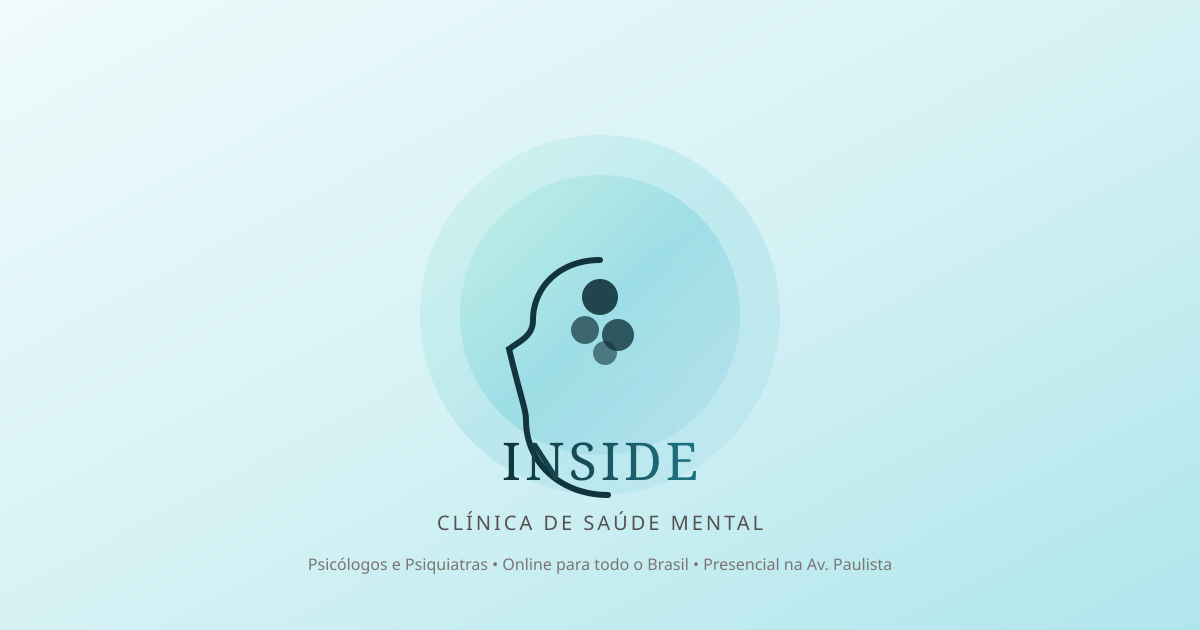
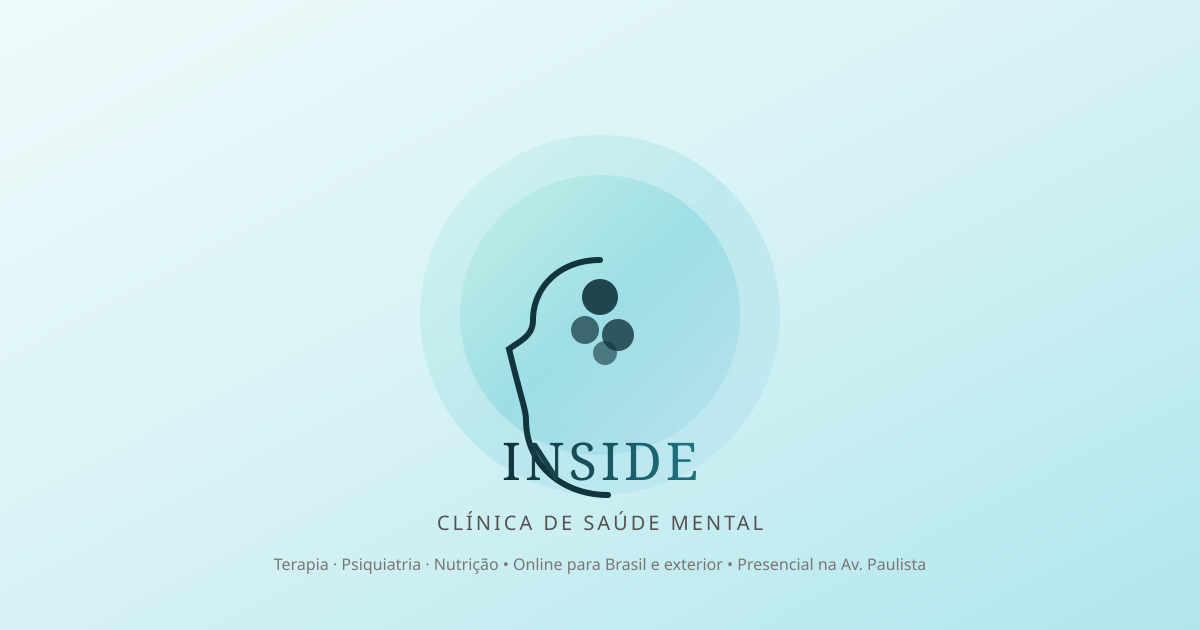
Cliente: Sala 1316 (13º andar), nutrição + bioimpedância, online Brasil e exterior, remove Intermédica

Changed region(s): [[0.2158, 0.8746, 0.7708, 0.9048]]

diff --git a/src_index.html b/src_index.html
@@ -5,7 +5,7 @@
 <meta name="viewport" content="width=device-width, initial-scale=1.0">
 <!-- ═══════════ SEO — online primeiro, Av. Paulista como base ═══════════ -->
 <title>INSIDE — Psicólogos e Psiquiatras Online | Clínica de Saúde Mental</title>
-<meta name="description" content="Terapia e consulta psiquiátrica online, de qualquer lugar do Brasil. Psicólogos e psiquiatras na mesma clínica. Também presencial na Av. Paulista, São Paulo. Unimed e Intermédica.">
+<meta name="description" content="Terapia, psiquiatria e acompanhamento nutricional online, do Brasil ou do exterior. Psicólogos, psiquiatras e nutricionista na mesma clínica. Presencial na Av. Paulista, São Paulo. Unimed.">
 <meta name="keywords" content="psicólogo online, psiquiatra online, terapia online, consulta psiquiátrica online, terapia de casal online, psicólogo online unimed, clínica de saúde mental online, psiquiatra av paulista">
 <meta name="robots" content="index, follow">
 <meta name="geo.region" content="BR-SP">
@@ -36,7 +36,7 @@
     {
       "@type":"MedicalClinic",
       "name":"INSIDE — Clínica de Saúde Mental",
-      "description":"Clínica de saúde mental com psicólogos e psiquiatras. Atendimento online para todo o Brasil e presencial em São Paulo. Terapia individual, de casal e familiar, atendimento infantil e consulta psiquiátrica.",
+      "description":"Clínica de saúde mental e bem-estar com psicólogos, psiquiatras e acompanhamento nutricional com bioimpedância. Atendimento online para todo o Brasil e exterior, e presencial em São Paulo. Terapia individual, de casal e familiar, atendimento infantil e consulta psiquiátrica.",
       "url":"https://www.insideemocional.com.br/",
       "telephone":["+55-11-96586-8310","+55-11-96701-6060"],
       "medicalSpecialty":["Psychiatric","Psychology"],
@@ -44,7 +44,7 @@
       "isAcceptingNewPatients":true,
       "address":{
         "@type":"PostalAddress",
-        "streetAddress":"Av. Paulista, 1159 — Conj. 702",
+        "streetAddress":"Av. Paulista, 1159 — Sala 1316, 13º andar",
         "addressLocality":"São Paulo",
         "addressRegion":"SP",
         "postalCode":"01311-200",
@@ -56,6 +56,7 @@
         {"@type":"MedicalTherapy","name":"Terapia individual online — adulto e infantil"},
         {"@type":"MedicalTherapy","name":"Terapia de casal e familiar online"},
         {"@type":"MedicalProcedure","name":"Consulta psiquiátrica online"},
+        {"@type":"MedicalTherapy","name":"Acompanhamento nutricional com bioimpedância"},
         {"@type":"MedicalTherapy","name":"Atendimento presencial em São Paulo"}
       ],
       "medicalBusinessType":"Clinic",
@@ -71,7 +72,7 @@
         {"@type":"Question","name":"O que eu falar fica em sigilo?","acceptedAnswer":{"@type":"Answer","text":"Sim. O sigilo é obrigação prevista nos códigos de ética da psicologia e da medicina. As exceções são estritas e previstas em lei — situações de risco de vida ou determinação judicial — e são explicadas a você no primeiro atendimento."}},
         {"@type":"Question","name":"Como funciona o atendimento online?","acceptedAnswer":{"@type":"Answer","text":"Por videochamada em plataforma segura, com a mesma duração e o mesmo sigilo do presencial. Tanto a psicoterapia quanto a consulta psiquiátrica à distância são regulamentadas pelos respectivos conselhos. Você precisa de conexão estável e de um ambiente reservado."}},
         {"@type":"Question","name":"Vocês atendem crianças?","acceptedAnswer":{"@type":"Answer","text":"Sim, na terapia individual infantil, com abordagem adaptada à faixa etária e orientação periódica aos responsáveis. O agendamento é feito por um responsável legal."}},
-        {"@type":"Question","name":"Meu plano cobre a consulta?","acceptedAnswer":{"@type":"Answer","text":"Atendemos Unimed e Intermédica. A cobertura varia conforme o produto contratado, então vale confirmar com a recepção antes de agendar. Para outros planos, emitimos recibo para reembolso."}},
+        {"@type":"Question","name":"Meu plano cobre a consulta?","acceptedAnswer":{"@type":"Answer","text":"Atendemos Unimed. A cobertura varia conforme o produto contratado, então vale confirmar com a recepção antes de agendar. Para outros planos, emitimos recibo para reembolso."}},
         {"@type":"Question","name":"A clínica atende urgências?","acceptedAnswer":{"@type":"Answer","text":"Não. A INSIDE trabalha com atendimento agendado e não funciona como pronto-socorro. Em situação de risco imediato, ligue 188 (CVV, gratuito e 24 horas), procure a UPA mais próxima ou o CAPS da sua região."}}
       ]
     },
@@ -407,7 +408,7 @@ footer li{margin-bottom:.6rem}
 <section class="hero" id="topo">
   <div class="wrap hero-grid">
     <div class="rev">
-      <span class="eyebrow">Online para todo o Brasil · Presencial em São Paulo</span>
+      <span class="eyebrow">Online para Brasil e exterior · Presencial em São Paulo</span>
       <h1>Psicólogos e psiquiatras, de onde você estiver.</h1>
       <p class="lede">
         Seu bem-estar estará em boas mãos. Terapia e acompanhamento psiquiátrico na mesma
@@ -502,7 +503,7 @@ footer li{margin-bottom:.6rem}
       </p>
       <ul class="mais-list" style="margin-top:1.9rem">
         <li><svg viewBox="0 0 24 24" fill="none" stroke="currentColor" stroke-width="2.2" stroke-linecap="round"><path d="M20 6 9 17l-5-5"/></svg> <span>Sem trânsito, sem estacionamento, sem sala de espera</span></li>
-        <li><svg viewBox="0 0 24 24" fill="none" stroke="currentColor" stroke-width="2.2" stroke-linecap="round"><path d="M20 6 9 17l-5-5"/></svg> <span>De qualquer cidade do Brasil, inclusive quem mora fora</span></li>
+        <li><svg viewBox="0 0 24 24" fill="none" stroke="currentColor" stroke-width="2.2" stroke-linecap="round"><path d="M20 6 9 17l-5-5"/></svg> <span>De qualquer cidade do Brasil — e também de quem mora no exterior</span></li>
         <li><svg viewBox="0 0 24 24" fill="none" stroke="currentColor" stroke-width="2.2" stroke-linecap="round"><path d="M20 6 9 17l-5-5"/></svg> <span>Continuidade em viagem, mudança ou rotina irregular</span></li>
         <li><svg viewBox="0 0 24 24" fill="none" stroke="currentColor" stroke-width="2.2" stroke-linecap="round"><path d="M20 6 9 17l-5-5"/></svg> <span>Discrição total — ninguém precisa saber que você faz terapia</span></li>
       </ul>
@@ -536,7 +537,7 @@ footer li{margin-bottom:.6rem}
       <span class="eyebrow">Nossos serviços</span>
       <h2>Orientação e cuidados personalizados</h2>
       <p class="lede">
-        Três frentes de atendimento, online para todo o Brasil ou presenciais em São Paulo.
+        Quatro frentes de atendimento, online para Brasil e exterior ou presenciais em São Paulo.
         Na primeira conversa definimos com você qual faz mais sentido.
       </p>
     </div>
@@ -574,6 +575,17 @@ footer li{margin-bottom:.6rem}
         </p>
         <div class="meta"><span class="tag">Adulto</span><span class="tag">Infantil</span><span class="tag">Presencial ou online</span></div>
       </article>
+      <article class="svc rev d3">
+        <span class="ic"><svg viewBox="0 0 24 24" fill="none" stroke="currentColor" stroke-width="1.8" stroke-linecap="round" stroke-linejoin="round"><path d="M22 12h-4l-3 9L9 3l-3 9H2"/></svg></span>
+        <span class="kicker">Mente e corpo</span>
+        <h3>Nutrição e bioimpedância</h3>
+        <p>
+          Às vezes, o que o seu corpo precisa é só de um ajuste. Acompanhamento nutricional
+          com avaliação por bioimpedância, integrado ao cuidado da mente — saúde emocional
+          e física no mesmo lugar, com a mesma equipe.
+        </p>
+        <div class="meta"><span class="tag">Nutrição</span><span class="tag">Bioimpedância</span><span class="tag">Presencial ou online</span></div>
+      </article>
     </div>
   </div>
 </section>
@@ -596,7 +608,7 @@ footer li{margin-bottom:.6rem}
       </p>
       <ul class="mais-list">
         <li><svg viewBox="0 0 24 24" fill="none" stroke="currentColor" stroke-width="2.2" stroke-linecap="round"><path d="M20 6 9 17l-5-5"/></svg> Agenda sempre aberta, sem lista de espera</li>
-        <li><svg viewBox="0 0 24 24" fill="none" stroke="currentColor" stroke-width="2.2" stroke-linecap="round"><path d="M20 6 9 17l-5-5"/></svg> Atendimento online de qualquer lugar do Brasil</li>
+        <li><svg viewBox="0 0 24 24" fill="none" stroke="currentColor" stroke-width="2.2" stroke-linecap="round"><path d="M20 6 9 17l-5-5"/></svg> Atendimento online de qualquer lugar do Brasil ou do exterior</li>
         <li><svg viewBox="0 0 24 24" fill="none" stroke="currentColor" stroke-width="2.2" stroke-linecap="round"><path d="M20 6 9 17l-5-5"/></svg> Mesma equipe, mesmos profissionais qualificados</li>
         <li><svg viewBox="0 0 24 24" fill="none" stroke="currentColor" stroke-width="2.2" stroke-linecap="round"><path d="M20 6 9 17l-5-5"/></svg> Independe de autorização ou carência de plano</li>
       </ul>
@@ -615,23 +627,56 @@ footer li{margin-bottom:.6rem}
 </section>
 <!-- ══════ CONVÊNIOS ══════ -->
 <section class="pad" id="convenios">
-  <div class="wrap narrow rev">
-    <span class="eyebrow">Opções de atendimento</span>
-    <h2>Convênios atendidos</h2>
-    <p class="lede">
-      Atendemos pelos planos abaixo. Para os demais, emitimos recibo com registro
-      profissional e CNPJ para você solicitar reembolso — a recepção orienta no processo.
+  <div class="wrap">
+    <div class="narrow rev">
+      <span class="eyebrow">Opções de atendimento</span>
+      <h2>Convênios e formas de pagamento</h2>
+      <p class="lede">
+        Atendemos convênios direto e, para os demais, emitimos recibo com CRP/CRM e CNPJ
+        para reembolso — a recepção orienta no processo e verifica sua cobertura antes de agendar.
+      </p>
+    </div>
+
+    <div class="conv-grid" style="display:grid;grid-template-columns:repeat(auto-fit,minmax(260px,1fr));gap:1.3rem;margin-top:3rem">
+      <!-- UNIMED -->
+      <article class="conv-card rev" style="background:#fff;border:1px solid var(--ink-100);border-radius:var(--r);padding:1.9rem 1.7rem;display:flex;flex-direction:column;transition:transform .25s ease,box-shadow .25s ease,border-color .25s ease">
+        <div class="conv-icon" style="width:44px;height:44px;border-radius:50%;background:var(--teal-100);display:grid;place-items:center;margin-bottom:1.2rem">
+          <svg viewBox="0 0 24 24" fill="none" stroke="currentColor" stroke-width="1.8" stroke-linecap="round" style="width:21px;height:21px;color:var(--teal-700)"><rect x="2" y="4" width="20" height="14" rx="2"/><path d="M8 22h8M12 18v4"/></svg>
+        </div>
+        <span class="kicker" style="font-size:.72rem;font-weight:700;letter-spacing:.14em;text-transform:uppercase;color:var(--teal-600);margin-bottom:.5rem;display:block">Convênio direto</span>
+        <h3 style="margin-bottom:.4rem">Unimed</h3>
+        <p style="font-size:.93rem;color:var(--ink-700);flex:1;margin-bottom:1.2rem">Psicoterapia e psiquiatria pela rede credenciada. A recepção confirma elegibilidade e coparticipação antes do agendamento.</p>
+        <a href="#contato" class="btn btn-outline" style="width:100%;justify-content:center;margin-top:auto">Verificar cobertura</a>
+      </article>
+
+      <!-- DEMAIS PLANOS - REEMBOLSO -->
+      <article class="conv-card rev d1" style="background:var(--teal-50);border:1px solid var(--teal-200);border-radius:var(--r);padding:1.9rem 1.7rem;display:flex;flex-direction:column;transition:transform .25s ease,box-shadow .25s ease,border-color .25s ease">
+        <div class="conv-icon" style="width:44px;height:44px;border-radius:50%;background:var(--teal-100);display:grid;place-items:center;margin-bottom:1.2rem">
+          <svg viewBox="0 0 24 24" fill="none" stroke="currentColor" stroke-width="1.8" stroke-linecap="round" style="width:21px;height:21px;color:var(--teal-700)"><path d="M12 2v20M17 5H9.5a3.5 3.5 0 0 0 0 7h5a3.5 3.5 0 0 1 0 7H6"/></svg>
+        </div>
+        <span class="kicker" style="font-size:.72rem;font-weight:700;letter-spacing:.14em;text-transform:uppercase;color:var(--teal-700);margin-bottom:.5rem;display:block">Reembolso</span>
+        <h3 style="margin-bottom:.4rem">Outros convênios</h3>
+        <p style="font-size:.93rem;color:var(--ink-700);flex:1;margin-bottom:1.2rem">Bradesco, SulAmérica, Amil, Porto Seguro, etc. Emitimos recibo completo (CNPJ, CRP/CRM, descrição) — você envia no app/portal do plano.</p>
+        <a href="#contato" class="btn btn-primary" style="width:100%;justify-content:center;margin-top:auto;background:var(--teal-600)">Quero atendimento por reembolso</a>
+      </article>
+
+      <!-- PARTICULAR / PLANO MAIS -->
+      <article class="conv-card rev d2" style="background:var(--teal-950);color:#CFE6EA;border:1px solid rgba(127,211,221,.24);border-radius:var(--r);padding:1.9rem 1.7rem;display:flex;flex-direction:column;transition:transform .25s ease,box-shadow .25s ease,border-color .25s ease">
+        <div class="conv-icon" style="width:44px;height:44px;border-radius:50%;background:rgba(127,211,221,.15);display:grid;place-items:center;margin-bottom:1.2rem">
+          <svg viewBox="0 0 24 24" fill="none" stroke="currentColor" stroke-width="1.8" stroke-linecap="round" style="width:21px;height:21px;color:var(--teal-300)"><circle cx="12" cy="12" r="10"/><path d="M12 6v6l4 2"/></svg>
+        </div>
+        <span class="kicker" style="font-size:.72rem;font-weight:700;letter-spacing:.14em;text-transform:uppercase;color:var(--teal-300);margin-bottom:.5rem;display:block">Sem convênio / Plano Mais</span>
+        <h3 style="margin-bottom:.4rem;color:#fff">Particular</h3>
+        <p style="font-size:.93rem;color:#A8CBD2;flex:1;margin-bottom:1.2rem">Sem autorização, carência ou rede credenciada. Mesma equipe, agenda aberta — você escolhe o horário e começa quando quiser.</p>
+        <a href="https://wa.me/5511965868310" class="btn" target="_blank" rel="noopener" style="width:100%;justify-content:center;margin-top:auto;background:var(--teal-300);color:var(--teal-950)">Ver vagas no WhatsApp</a>
+      </article>
+    </div>
+
+    <!-- NOTE -->
+    <p style="margin-top:2rem;font-size:.85rem;color:var(--ink-500);text-align:center;max-width:600px;margin-left:auto;margin-right:auto">
+      <svg viewBox="0 0 24 24" fill="none" stroke="currentColor" stroke-width="2" stroke-linecap="round" stroke-linejoin="round" style="width:16px;height:16px;display:inline-block;vertical-align:middle;margin-right:.4rem;color:var(--teal-500)"><rect x="3" y="11" width="18" height="11" rx="2"/><path d="M7 11V7a5 5 0 0 1 10 0v4"/></svg>
+      Sigilo profissional garantido. Recepção responde em até 30 min no horário comercial.
     </p>
-    <!-- ⬇ Substituir os textos pelos logos oficiais (autorizados) se houver liberação de uso de marca -->
-    <div class="plans">
-      <span class="plan">Unimed<em>Consulte cobertura</em></span>
-      <span class="plan">Intermédica<em>Consulte cobertura</em></span>
-      <span class="plan">Demais planos<em>Recibo para reembolso</em></span>
-      <span class="plan">Particular<em>Presencial ou online</em></span>
-    </div>
-    <div style="margin-top:2rem">
-      <a href="#contato" class="btn btn-outline">Confirmar cobertura do meu plano</a>
-    </div>
   </div>
 </section>
 <!-- ══════ QUEM SOMOS ══════ -->
@@ -704,7 +749,7 @@ footer li{margin-bottom:.6rem}
         <button aria-expanded="false">Meu plano cobre a consulta?
           <span class="ind"><svg viewBox="0 0 24 24" fill="none" stroke="currentColor" stroke-width="2.4" stroke-linecap="round"><path d="M12 5v14M5 12h14"/></svg></span>
         </button>
-        <div class="ans"><p>Atendemos Unimed e Intermédica. A cobertura varia conforme o produto contratado, então vale confirmar com a recepção antes de agendar. Para outros planos, emitimos recibo para reembolso.</p></div>
+        <div class="ans"><p>Atendemos Unimed. A cobertura varia conforme o produto contratado, então vale confirmar com a recepção antes de agendar. Para outros planos, emitimos recibo para reembolso.</p></div>
       </div>
       <div class="qa">
         <button aria-expanded="false">A clínica atende urgências?
@@ -743,14 +788,14 @@ footer li{margin-bottom:.6rem}
         <span class="ic"><svg viewBox="0 0 24 24" fill="none" stroke="currentColor" stroke-width="2" stroke-linecap="round"><rect x="2" y="4" width="20" height="14" rx="2"/><path d="M8 22h8M12 18v4"/></svg></span>
         <div>
           <b>Atendimento online</b>
-          <span>Videochamada em plataforma segura, para todo o Brasil</span>
+          <span>Videochamada em plataforma segura, para Brasil e exterior</span>
         </div>
       </div>
       <div class="contact-line">
         <span class="ic"><svg viewBox="0 0 24 24" fill="none" stroke="currentColor" stroke-width="2" stroke-linecap="round"><path d="M21 10c0 7-9 13-9 13s-9-6-9-13a9 9 0 0 1 18 0z"/><circle cx="12" cy="10" r="3"/></svg></span>
         <div>
           <b>Presencial em São Paulo</b>
-          <span>Av. Paulista, 1159 — Conj. 702 · Bela Vista · Metrô Trianon-Masp</span>
+          <span>Av. Paulista, 1159 — Sala 1316, 13º andar · Bela Vista · Metrô Trianon-Masp</span>
         </div>
       </div>
     </div>
@@ -815,7 +860,7 @@ footer li{margin-bottom:.6rem}
     <div class="ft-grid">
       <div class="ft-brand">
         <div class="nm">INSIDE</div>
-        <p>Clínica de saúde mental com psicólogos e psiquiatras. Atendimento online para todo o Brasil e presencial em São Paulo, com hora marcada.</p>
+        <p>Clínica de saúde mental e bem-estar com psicólogos, psiquiatras e acompanhamento nutricional. Atendimento online para Brasil e exterior, e presencial em São Paulo, com hora marcada.</p>
       </div>
       <div>
         <h5>Navegação</h5>
@@ -834,8 +879,8 @@ footer li{margin-bottom:.6rem}
         <ul>
           <li><a href="tel:+5511965868310">(11) 96586-8310</a></li>
           <li><a href="tel:+5511967016060">(11) 96701-6060</a></li>
-          <li>Online para todo o Brasil</li>
-          <li>Presencial: Av. Paulista, 1159 — Conj. 702<br>Bela Vista, São Paulo/SP</li>
+          <li>Online para Brasil e exterior</li>
+          <li>Presencial: Av. Paulista, 1159 — Sala 1316, 13º andar<br>Bela Vista, São Paulo/SP</li>
           <li><a href="/privacidade.html">Política de Privacidade</a></li>
         </ul>
       </div>

diff --git a/index.html b/index.html
@@ -5,7 +5,7 @@
 <meta name="viewport" content="width=device-width, initial-scale=1.0">
 <!-- ═══════════ SEO — online primeiro, Av. Paulista como base ═══════════ -->
 <title>INSIDE — Psicólogos e Psiquiatras Online | Clínica de Saúde Mental</title>
-<meta name="description" content="Terapia e consulta psiquiátrica online, de qualquer lugar do Brasil. Psicólogos e psiquiatras na mesma clínica. Também presencial na Av. Paulista, São Paulo. Unimed e Intermédica.">
+<meta name="description" content="Terapia, psiquiatria e acompanhamento nutricional online, do Brasil ou do exterior. Psicólogos, psiquiatras e nutricionista na mesma clínica. Presencial na Av. Paulista, São Paulo. Unimed.">
 <meta name="keywords" content="psicólogo online, psiquiatra online, terapia online, consulta psiquiátrica online, terapia de casal online, psicólogo online unimed, clínica de saúde mental online, psiquiatra av paulista">
 <meta name="robots" content="index, follow">
 <meta name="geo.region" content="BR-SP">
@@ -36,7 +36,7 @@
     {
       "@type":"MedicalClinic",
       "name":"INSIDE — Clínica de Saúde Mental",
-      "description":"Clínica de saúde mental com psicólogos e psiquiatras. Atendimento online para todo o Brasil e presencial em São Paulo. Terapia individual, de casal e familiar, atendimento infantil e consulta psiquiátrica.",
+      "description":"Clínica de saúde mental e bem-estar com psicólogos, psiquiatras e acompanhamento nutricional com bioimpedância. Atendimento online para todo o Brasil e exterior, e presencial em São Paulo. Terapia individual, de casal e familiar, atendimento infantil e consulta psiquiátrica.",
       "url":"https://www.insideemocional.com.br/",
       "telephone":["+55-11-96586-8310","+55-11-96701-6060"],
       "medicalSpecialty":["Psychiatric","Psychology"],
@@ -44,7 +44,7 @@
       "isAcceptingNewPatients":true,
       "address":{
         "@type":"PostalAddress",
-        "streetAddress":"Av. Paulista, 1159 — Conj. 702",
+        "streetAddress":"Av. Paulista, 1159 — Sala 1316, 13º andar",
         "addressLocality":"São Paulo",
         "addressRegion":"SP",
         "postalCode":"01311-200",
@@ -56,6 +56,7 @@
         {"@type":"MedicalTherapy","name":"Terapia individual online — adulto e infantil"},
         {"@type":"MedicalTherapy","name":"Terapia de casal e familiar online"},
         {"@type":"MedicalProcedure","name":"Consulta psiquiátrica online"},
+        {"@type":"MedicalTherapy","name":"Acompanhamento nutricional com bioimpedância"},
         {"@type":"MedicalTherapy","name":"Atendimento presencial em São Paulo"}
       ],
       "medicalBusinessType":"Clinic",
@@ -71,7 +72,7 @@
         {"@type":"Question","name":"O que eu falar fica em sigilo?","acceptedAnswer":{"@type":"Answer","text":"Sim. O sigilo é obrigação prevista nos códigos de ética da psicologia e da medicina. As exceções são estritas e previstas em lei — situações de risco de vida ou determinação judicial — e são explicadas a você no primeiro atendimento."}},
         {"@type":"Question","name":"Como funciona o atendimento online?","acceptedAnswer":{"@type":"Answer","text":"Por videochamada em plataforma segura, com a mesma duração e o mesmo sigilo do presencial. Tanto a psicoterapia quanto a consulta psiquiátrica à distância são regulamentadas pelos respectivos conselhos. Você precisa de conexão estável e de um ambiente reservado."}},
         {"@type":"Question","name":"Vocês atendem crianças?","acceptedAnswer":{"@type":"Answer","text":"Sim, na terapia individual infantil, com abordagem adaptada à faixa etária e orientação periódica aos responsáveis. O agendamento é feito por um responsável legal."}},
-        {"@type":"Question","name":"Meu plano cobre a consulta?","acceptedAnswer":{"@type":"Answer","text":"Atendemos Unimed e Intermédica. A cobertura varia conforme o produto contratado, então vale confirmar com a recepção antes de agendar. Para outros planos, emitimos recibo para reembolso."}},
+        {"@type":"Question","name":"Meu plano cobre a consulta?","acceptedAnswer":{"@type":"Answer","text":"Atendemos Unimed. A cobertura varia conforme o produto contratado, então vale confirmar com a recepção antes de agendar. Para outros planos, emitimos recibo para reembolso."}},
         {"@type":"Question","name":"A clínica atende urgências?","acceptedAnswer":{"@type":"Answer","text":"Não. A INSIDE trabalha com atendimento agendado e não funciona como pronto-socorro. Em situação de risco imediato, ligue 188 (CVV, gratuito e 24 horas), procure a UPA mais próxima ou o CAPS da sua região."}}
       ]
     },
@@ -407,7 +408,7 @@ footer li{margin-bottom:.6rem}
 <section class="hero" id="topo">
   <div class="wrap hero-grid">
     <div class="rev">
-      <span class="eyebrow">Online para todo o Brasil · Presencial em São Paulo</span>
+      <span class="eyebrow">Online para Brasil e exterior · Presencial em São Paulo</span>
       <h1>Psicólogos e psiquiatras, de onde você estiver.</h1>
       <p class="lede">
         Seu bem-estar estará em boas mãos. Terapia e acompanhamento psiquiátrico na mesma
@@ -502,7 +503,7 @@ footer li{margin-bottom:.6rem}
       </p>
       <ul class="mais-list" style="margin-top:1.9rem">
         <li><svg viewBox="0 0 24 24" fill="none" stroke="currentColor" stroke-width="2.2" stroke-linecap="round"><path d="M20 6 9 17l-5-5"/></svg> <span>Sem trânsito, sem estacionamento, sem sala de espera</span></li>
-        <li><svg viewBox="0 0 24 24" fill="none" stroke="currentColor" stroke-width="2.2" stroke-linecap="round"><path d="M20 6 9 17l-5-5"/></svg> <span>De qualquer cidade do Brasil, inclusive quem mora fora</span></li>
+        <li><svg viewBox="0 0 24 24" fill="none" stroke="currentColor" stroke-width="2.2" stroke-linecap="round"><path d="M20 6 9 17l-5-5"/></svg> <span>De qualquer cidade do Brasil — e também de quem mora no exterior</span></li>
         <li><svg viewBox="0 0 24 24" fill="none" stroke="currentColor" stroke-width="2.2" stroke-linecap="round"><path d="M20 6 9 17l-5-5"/></svg> <span>Continuidade em viagem, mudança ou rotina irregular</span></li>
         <li><svg viewBox="0 0 24 24" fill="none" stroke="currentColor" stroke-width="2.2" stroke-linecap="round"><path d="M20 6 9 17l-5-5"/></svg> <span>Discrição total — ninguém precisa saber que você faz terapia</span></li>
       </ul>
@@ -536,7 +537,7 @@ footer li{margin-bottom:.6rem}
       <span class="eyebrow">Nossos serviços</span>
       <h2>Orientação e cuidados personalizados</h2>
       <p class="lede">
-        Três frentes de atendimento, online para todo o Brasil ou presenciais em São Paulo.
+        Quatro frentes de atendimento, online para Brasil e exterior ou presenciais em São Paulo.
         Na primeira conversa definimos com você qual faz mais sentido.
       </p>
     </div>
@@ -574,6 +575,17 @@ footer li{margin-bottom:.6rem}
         </p>
         <div class="meta"><span class="tag">Adulto</span><span class="tag">Infantil</span><span class="tag">Presencial ou online</span></div>
       </article>
+      <article class="svc rev d3">
+        <span class="ic"><svg viewBox="0 0 24 24" fill="none" stroke="currentColor" stroke-width="1.8" stroke-linecap="round" stroke-linejoin="round"><path d="M22 12h-4l-3 9L9 3l-3 9H2"/></svg></span>
+        <span class="kicker">Mente e corpo</span>
+        <h3>Nutrição e bioimpedância</h3>
+        <p>
+          Às vezes, o que o seu corpo precisa é só de um ajuste. Acompanhamento nutricional
+          com avaliação por bioimpedância, integrado ao cuidado da mente — saúde emocional
+          e física no mesmo lugar, com a mesma equipe.
+        </p>
+        <div class="meta"><span class="tag">Nutrição</span><span class="tag">Bioimpedância</span><span class="tag">Presencial ou online</span></div>
+      </article>
     </div>
   </div>
 </section>
@@ -596,7 +608,7 @@ footer li{margin-bottom:.6rem}
       </p>
       <ul class="mais-list">
         <li><svg viewBox="0 0 24 24" fill="none" stroke="currentColor" stroke-width="2.2" stroke-linecap="round"><path d="M20 6 9 17l-5-5"/></svg> Agenda sempre aberta, sem lista de espera</li>
-        <li><svg viewBox="0 0 24 24" fill="none" stroke="currentColor" stroke-width="2.2" stroke-linecap="round"><path d="M20 6 9 17l-5-5"/></svg> Atendimento online de qualquer lugar do Brasil</li>
+        <li><svg viewBox="0 0 24 24" fill="none" stroke="currentColor" stroke-width="2.2" stroke-linecap="round"><path d="M20 6 9 17l-5-5"/></svg> Atendimento online de qualquer lugar do Brasil ou do exterior</li>
         <li><svg viewBox="0 0 24 24" fill="none" stroke="currentColor" stroke-width="2.2" stroke-linecap="round"><path d="M20 6 9 17l-5-5"/></svg> Mesma equipe, mesmos profissionais qualificados</li>
         <li><svg viewBox="0 0 24 24" fill="none" stroke="currentColor" stroke-width="2.2" stroke-linecap="round"><path d="M20 6 9 17l-5-5"/></svg> Independe de autorização ou carência de plano</li>
       </ul>
@@ -637,19 +649,8 @@ footer li{margin-bottom:.6rem}
         <a href="#contato" class="btn btn-outline" style="width:100%;justify-content:center;margin-top:auto">Verificar cobertura</a>
       </article>
 
-      <!-- INTERMÉDICA -->
-      <article class="conv-card rev d1" style="background:#fff;border:1px solid var(--ink-100);border-radius:var(--r);padding:1.9rem 1.7rem;display:flex;flex-direction:column;transition:transform .25s ease,box-shadow .25s ease,border-color .25s ease">
-        <div class="conv-icon" style="width:44px;height:44px;border-radius:50%;background:var(--teal-100);display:grid;place-items:center;margin-bottom:1.2rem">
-          <svg viewBox="0 0 24 24" fill="none" stroke="currentColor" stroke-width="1.8" stroke-linecap="round" style="width:21px;height:21px;color:var(--teal-700)"><rect x="2" y="4" width="20" height="14" rx="2"/><path d="M8 22h8M12 18v4"/></svg>
-        </div>
-        <span class="kicker" style="font-size:.72rem;font-weight:700;letter-spacing:.14em;text-transform:uppercase;color:var(--teal-600);margin-bottom:.5rem;display:block">Convênio direto</span>
-        <h3 style="margin-bottom:.4rem">Intermédica / GNDI</h3>
-        <p style="font-size:.93rem;color:var(--ink-700);flex:1;margin-bottom:1.2rem">Mesmas regras: a recepção checa rede credenciada, carência e coparticipação antes de agendar.</p>
-        <a href="#contato" class="btn btn-outline" style="width:100%;justify-content:center;margin-top:auto">Verificar cobertura</a>
-      </article>
-
       <!-- DEMAIS PLANOS - REEMBOLSO -->
-      <article class="conv-card rev d2" style="background:var(--teal-50);border:1px solid var(--teal-200);border-radius:var(--r);padding:1.9rem 1.7rem;display:flex;flex-direction:column;transition:transform .25s ease,box-shadow .25s ease,border-color .25s ease">
+      <article class="conv-card rev d1" style="background:var(--teal-50);border:1px solid var(--teal-200);border-radius:var(--r);padding:1.9rem 1.7rem;display:flex;flex-direction:column;transition:transform .25s ease,box-shadow .25s ease,border-color .25s ease">
         <div class="conv-icon" style="width:44px;height:44px;border-radius:50%;background:var(--teal-100);display:grid;place-items:center;margin-bottom:1.2rem">
           <svg viewBox="0 0 24 24" fill="none" stroke="currentColor" stroke-width="1.8" stroke-linecap="round" style="width:21px;height:21px;color:var(--teal-700)"><path d="M12 2v20M17 5H9.5a3.5 3.5 0 0 0 0 7h5a3.5 3.5 0 0 1 0 7H6"/></svg>
         </div>
@@ -660,7 +661,7 @@ footer li{margin-bottom:.6rem}
       </article>
 
       <!-- PARTICULAR / PLANO MAIS -->
-      <article class="conv-card rev d3" style="background:var(--teal-950);color:#CFE6EA;border:1px solid rgba(127,211,221,.24);border-radius:var(--r);padding:1.9rem 1.7rem;display:flex;flex-direction:column;transition:transform .25s ease,box-shadow .25s ease,border-color .25s ease">
+      <article class="conv-card rev d2" style="background:var(--teal-950);color:#CFE6EA;border:1px solid rgba(127,211,221,.24);border-radius:var(--r);padding:1.9rem 1.7rem;display:flex;flex-direction:column;transition:transform .25s ease,box-shadow .25s ease,border-color .25s ease">
         <div class="conv-icon" style="width:44px;height:44px;border-radius:50%;background:rgba(127,211,221,.15);display:grid;place-items:center;margin-bottom:1.2rem">
           <svg viewBox="0 0 24 24" fill="none" stroke="currentColor" stroke-width="1.8" stroke-linecap="round" style="width:21px;height:21px;color:var(--teal-300)"><circle cx="12" cy="12" r="10"/><path d="M12 6v6l4 2"/></svg>
         </div>
@@ -748,7 +749,7 @@ footer li{margin-bottom:.6rem}
         <button aria-expanded="false">Meu plano cobre a consulta?
           <span class="ind"><svg viewBox="0 0 24 24" fill="none" stroke="currentColor" stroke-width="2.4" stroke-linecap="round"><path d="M12 5v14M5 12h14"/></svg></span>
         </button>
-        <div class="ans"><p>Atendemos Unimed e Intermédica. A cobertura varia conforme o produto contratado, então vale confirmar com a recepção antes de agendar. Para outros planos, emitimos recibo para reembolso.</p></div>
+        <div class="ans"><p>Atendemos Unimed. A cobertura varia conforme o produto contratado, então vale confirmar com a recepção antes de agendar. Para outros planos, emitimos recibo para reembolso.</p></div>
       </div>
       <div class="qa">
         <button aria-expanded="false">A clínica atende urgências?
@@ -787,14 +788,14 @@ footer li{margin-bottom:.6rem}
         <span class="ic"><svg viewBox="0 0 24 24" fill="none" stroke="currentColor" stroke-width="2" stroke-linecap="round"><rect x="2" y="4" width="20" height="14" rx="2"/><path d="M8 22h8M12 18v4"/></svg></span>
         <div>
           <b>Atendimento online</b>
-          <span>Videochamada em plataforma segura, para todo o Brasil</span>
+          <span>Videochamada em plataforma segura, para Brasil e exterior</span>
         </div>
       </div>
       <div class="contact-line">
         <span class="ic"><svg viewBox="0 0 24 24" fill="none" stroke="currentColor" stroke-width="2" stroke-linecap="round"><path d="M21 10c0 7-9 13-9 13s-9-6-9-13a9 9 0 0 1 18 0z"/><circle cx="12" cy="10" r="3"/></svg></span>
         <div>
           <b>Presencial em São Paulo</b>
-          <span>Av. Paulista, 1159 — Conj. 702 · Bela Vista · Metrô Trianon-Masp</span>
+          <span>Av. Paulista, 1159 — Sala 1316, 13º andar · Bela Vista · Metrô Trianon-Masp</span>
         </div>
       </div>
     </div>
@@ -859,7 +860,7 @@ footer li{margin-bottom:.6rem}
     <div class="ft-grid">
       <div class="ft-brand">
         <div class="nm">INSIDE</div>
-        <p>Clínica de saúde mental com psicólogos e psiquiatras. Atendimento online para todo o Brasil e presencial em São Paulo, com hora marcada.</p>
+        <p>Clínica de saúde mental e bem-estar com psicólogos, psiquiatras e acompanhamento nutricional. Atendimento online para Brasil e exterior, e presencial em São Paulo, com hora marcada.</p>
       </div>
       <div>
         <h5>Navegação</h5>
@@ -878,8 +879,8 @@ footer li{margin-bottom:.6rem}
         <ul>
           <li><a href="tel:+5511965868310">(11) 96586-8310</a></li>
           <li><a href="tel:+5511967016060">(11) 96701-6060</a></li>
-          <li>Online para todo o Brasil</li>
-          <li>Presencial: Av. Paulista, 1159 — Conj. 702<br>Bela Vista, São Paulo/SP</li>
+          <li>Online para Brasil e exterior</li>
+          <li>Presencial: Av. Paulista, 1159 — Sala 1316, 13º andar<br>Bela Vista, São Paulo/SP</li>
           <li><a href="/privacidade.html">Política de Privacidade</a></li>
         </ul>
       </div>
